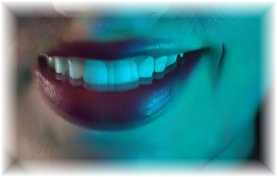
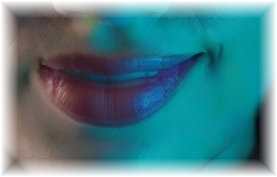
Nyx: sonrisa natural sin dientes + lip-sync suavizado
- La sonrisa con dientes caía en el valle inquietante (feedback: 'me da
  miedo') -> regenerada de boca cerrada (3 seeds, elegida la más suave a
  ojo). Regla nueva en la guía: humanos realistas SIEMPRE sonrisa cerrada.
- Lip-sync: los visemas conmutaban por umbral crudo de amplitud y
  parpadeaban -> amplitud suavizada (ataque 45ms/caída 130ms) + histéresis
  entre visemas + hold mínimo de 90ms; el bob de habla y el glow usan la
  amplitud suavizada.
- gen_nyx.py: soporte de variante única + multi-seed (variants <base>
  <nombre> <seeds>) para regenerar un parche suelto sin rehacer todos.

Changed region(s): [[0.0866, 0.113, 0.8375, 0.8475], [0.5776, 0.678, 0.6065, 0.7062]]

diff --git a/shell/backends/CyberHumanBackend.qml b/shell/backends/CyberHumanBackend.qml
@@ -72,8 +72,11 @@ Item {
     // sonrisa: caricia que gusta, o placer alto sostenido
     readonly property bool _smiling: !sleeping && !escaping
         && ((petActive && petSpeed < 1.4 && pleasure > 0.55) || pleasure > 0.78)
-    // visemas por amplitud de voz (lip-sync de foto real)
-    readonly property int _viseme: !_speaking ? 0 : (voiceAmplitude > 0.5 ? 2 : (voiceAmplitude > 0.15 ? 1 : 0))
+    // lip-sync: NO por umbral crudo (parpadeaba entre visemas). Amplitud suavizada con
+    // ataque rápido/caída lenta + histéresis + hold mínimo de 90ms — se computa en _compose.
+    property real _mouthAmp: 0
+    property int _viseme: 0
+    property real _visemeAt: 0
 
     // ============================ ESCENARIO ============================
     // stage en píxeles FUENTE (832x1216): los parches usan coordenadas del PNG original.
@@ -247,13 +250,24 @@ Item {
         }
         if (held) { arousal = Math.min(1, arousal + dt * 0.3); _glitch = Math.max(_glitch, 0.15); }
 
+        // lip-sync suavizado: ataque 45ms, caída 130ms; visema con histéresis y hold de 90ms
+        var tgt = _speaking ? voiceAmplitude : 0;
+        _mouthAmp += (tgt - _mouthAmp) * Math.min(1, dt / (tgt > _mouthAmp ? 0.045 : 0.13));
+        if (_t - _visemeAt > 0.09) {
+            var v = _viseme;
+            if (_viseme === 2) { if (_mouthAmp < 0.34) v = (_mouthAmp < 0.09 ? 0 : 1); }
+            else if (_viseme === 1) { if (_mouthAmp > 0.48) v = 2; else if (_mouthAmp < 0.08) v = 0; }
+            else { if (_mouthAmp > 0.45) v = 2; else if (_mouthAmp > 0.13) v = 1; }
+            if (v !== _viseme) { _viseme = v; _visemeAt = _t; }
+        }
+
         // respiración (12-16/min; más rápida alterada) + sway postural + lean
         _breathPhase += dt * (sleeping ? 0.18 : (0.22 + arousal * 0.28)) * Math.PI * 2;
         _swayPhase += dt * 0.35;
         var breath = Math.sin(_breathPhase);
         var sway = Math.sin(_swayPhase) * (sleeping ? 0.15 : 0.8) + Math.sin(_swayPhase * 2.7) * 0.25;
         var nod = dancing ? Math.sin(_t * 3.6) * 1.0 : 0;                     // asiente con la música
-        var speakBob = _speaking ? voiceAmplitude * 1.2 : 0;
+        var speakBob = _speaking ? _mouthAmp * 1.2 : 0;
         body.scale = 1 + breath * 0.004;
         body.rotation = sway + _lean * 3.5 + nod * 0.6;
         body.y = -Math.abs(nod) * 1.5 - speakBob;
@@ -271,7 +285,7 @@ Item {
         var dub = Math.exp(-Math.pow((_heartPhase - 0.24) * 16, 2)) * 0.6;
         var beat = (lub + dub) * (0.22 + arousal * 0.25);
         var baseGlow = sleeping ? 0.22 : (0.45 + pleasure * 0.18 + (dancing ? 0.12 * Math.sin(_t * 3.6) : 0));
-        glowImg.opacity = Math.min(1, baseGlow + beat + _glitch * 0.4 + (_speaking ? voiceAmplitude * 0.15 : 0));
+        glowImg.opacity = Math.min(1, baseGlow + beat + _glitch * 0.4 + _mouthAmp * 0.15);
     }
 
     // ---- susto -> glitch total + TELETRANSPORTE (la huida cyberpunk) ----

diff --git a/tools/art/gen_nyx.py b/tools/art/gen_nyx.py
@@ -49,7 +49,9 @@ VARIANTS = {
     "eyes_right":  ("eyes",  "eyes looking far to her left side, iris turned sideways"),
     "mouth_open":  ("mouth", "mouth slightly open, speaking mid-word, teeth slightly visible"),
     "mouth_wide":  ("mouth", "mouth open wide, speaking emphatically"),
-    "smile":       ("mouth", "warm delighted smile, joyful"),
+    # sonrisa CERRADA: la de dientes daba miedo (feedback del usuario) — sutil tipo Mona Lisa
+    "smile":       ("mouth", "soft gentle closed-mouth smile, lips together, warm subtle smile, "
+                             "kind relaxed expression, no teeth"),
 }
 
 
@@ -90,25 +92,30 @@ def gen_base():
         print(f"✓ nyx_c{i}.png (seed {seed})")
 
 
-def gen_variants(base_name: str):
+def gen_variants(base_name: str, only: str = "", seeds=(7,)):
+    """Genera variantes; `only` filtra por nombre (p.ej. 'smile') y `seeds` da candidatas."""
     import torch
     from PIL import Image, ImageDraw, ImageFilter
     from diffusers import StableDiffusionXLInpaintPipeline
     base = Image.open(WORK / base_name).convert("RGB")
     pipe = _pipe(StableDiffusionXLInpaintPipeline)
     for name, (box_id, prompt) in VARIANTS.items():
+        if only and name != only:
+            continue
         x, y, w, h = BOXES[box_id]
         mask = Image.new("L", base.size, 0)
         d = ImageDraw.Draw(mask)
         d.ellipse([x, y, x + w, y + h], fill=255)
         mask = mask.filter(ImageFilter.GaussianBlur(8))
-        g = torch.Generator("cuda").manual_seed(7)
-        img = pipe(prompt=f"raw photo, {prompt}, hyperrealistic, sharp focus",
-                   negative_prompt=NEG, image=base, mask_image=mask,
-                   width=W, height=H, strength=0.92,
-                   num_inference_steps=30, guidance_scale=5.5, generator=g).images[0]
-        img.save(WORK / f"nyx_{name}.png")
-        print(f"✓ nyx_{name}.png")
+        for seed in seeds:
+            g = torch.Generator("cuda").manual_seed(seed)
+            img = pipe(prompt=f"raw photo, {prompt}, hyperrealistic, sharp focus",
+                       negative_prompt=NEG, image=base, mask_image=mask,
+                       width=W, height=H, strength=0.92,
+                       num_inference_steps=30, guidance_scale=5.5, generator=g).images[0]
+            suffix = f"_s{seed}" if len(seeds) > 1 else ""
+            img.save(WORK / f"nyx_{name}{suffix}.png")
+            print(f"✓ nyx_{name}{suffix}.png")
 
 
 def cut(base_name: str):
@@ -204,6 +211,8 @@ if __name__ == "__main__":
     if cmd == "base":
         gen_base()
     elif cmd == "variants":
-        gen_variants(sys.argv[2])
+        only = sys.argv[3] if len(sys.argv) > 3 else ""
+        seeds = tuple(int(s) for s in sys.argv[4].split(",")) if len(sys.argv) > 4 else (7,)
+        gen_variants(sys.argv[2], only, seeds)
     elif cmd == "cut":
         cut(sys.argv[2])

diff --git a/docs/GUIA_DISENO_PETS.md b/docs/GUIA_DISENO_PETS.md
@@ -110,6 +110,10 @@ Detalle completo en `docs/NYX_CYBER.md`. La esencia:
    `MultiEffect`. Que capture luz reflejada en la piel es CORRECTO (late con la fuente).
 5. Micro-etología humana: parpadeo estadístico (media ~4s, 12% dobles, cierre 55ms/apertura
    95ms), sacádicos instantáneos con histéresis, sway de 2 frecuencias, fidgets cada 20-50s.
+   **Sonrisas SIEMPRE cerradas (sin dientes)** en humanos realistas — la sonrisa con dientes
+   cae en el valle inquietante (feedback directo del usuario: "me da miedo"). Generar 3+
+   seeds de sonrisa y elegir la más suave. **Lip-sync**: nunca visemas por umbral crudo
+   (parpadea); amplitud suavizada (ataque 45ms/caída 130ms) + histéresis + hold de 90ms.
 6. Los límites técnicos se convierten en estética (glitch RGB, scanlines ENMASCARADAS a la
    silueta, boot, teletransporte).
 
